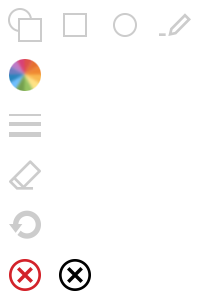
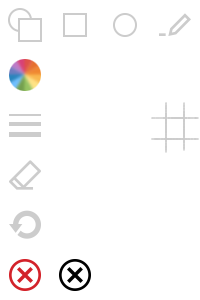
0323 격자 추가

Changed region(s): [[0.75, 0.33, 1.0, 0.51]]

diff --git a/jincheon-sportstown-0.0.1/src/main/webapp/resources/share/css/contents.css b/jincheon-sportstown-0.0.1/src/main/webapp/resources/share/css/contents.css
@@ -163,7 +163,7 @@ input[type="number"]::-webkit-inner-spin-button {-webkit-appearance: none;}
 .canvasContainer .canvasMenuWrap ul	{display:flex;}
 .canvasContainer .canvasMenuWrap > ul > li + li	{margin-left:10px;}
 
-.canvasContainer .canvasMenuWrap ul li ul	{display:none; margin-top:-240px;}
+.canvasContainer .canvasMenuWrap ul li ul	{display:none; margin-top:-295px;}
 .canvasContainer .canvasMenuWrap ul li.color ul 	{display:none; margin-top:-353px;}
 .canvasContainer .canvasMenuWrap ul li ul li + li	{margin-top:5px;}
 .canvasContainer .canvasMenuWrap ul li p.open + ul	{display:block;}
@@ -175,6 +175,7 @@ input[type="number"]::-webkit-inner-spin-button {-webkit-appearance: none;}
 .canvasContainer .canvasMenuWrap .figure > p	{background-position:0 0;}
 .canvasContainer .canvasMenuWrap .figure > p:hover	{background-position:-100px -100px;}
 
+.canvasContainer .canvasMenuWrap .figure .grid a	{background-position:-150px -100px;}
 .canvasContainer .canvasMenuWrap .figure .quadrangle a	{background-position:-50px 0;}
 .canvasContainer .canvasMenuWrap .figure .circle a	{background-position:-100px 0;}
 .canvasContainer .canvasMenuWrap .figure .line a	{background-position:-150px 0;}

diff --git a/jincheon-sportstown-0.0.1/src/main/webapp/bluecap/canvas/canvas.js b/jincheon-sportstown-0.0.1/src/main/webapp/bluecap/canvas/canvas.js
@@ -338,9 +338,24 @@ function drawShape(cShape){
 			
 			
 			switch(shape){
+				case "격자":
+					ctxChange.clearRect(0,0,canvasShape.width,canvasShape.height);
+
+					for (var i = 0; i < 6; i++){
+					    for (var j = 0; j < 6; j++){
+
+					      ctxChange.strokeRect(sX+j*(cX-sX+25),sY+i*(cY-sY+25),cX-sX+25,cY-sY+25);
+					    }
+					  }
+					break;
 				case "네모":
 					ctxChange.clearRect(0,0,canvasShape.width,canvasShape.height);
 					ctxChange.strokeRect(sX,sY,cX-sX,cY-sY);
+					
+					
+					
+					
+					
 					break;
 				case "원":
 					ctxChange.clearRect(0,0,canvasShape.width,canvasShape.height);
@@ -393,8 +408,21 @@ function drawShape(cShape){
 
 		console.log("aaaa:",shape);
 		switch(shape){
+			case "격자":
+
+				for (var i = 0; i < 6; i++){
+				    for (var j = 0; j < 6; j++){
+
+				      ctx.strokeRect(sX+j*(cX-sX+25),sY+i*(cY-sY+25),cX-sX+25,cY-sY+25);
+				    }
+				  }
+				
+				shape ="격자";
+				break;
 			case "네모":
 				ctx.strokeRect(sX,sY,cX-sX,cY-sY);
+				
+				
 				shape ="네모";
 				break;
 			case "원":
